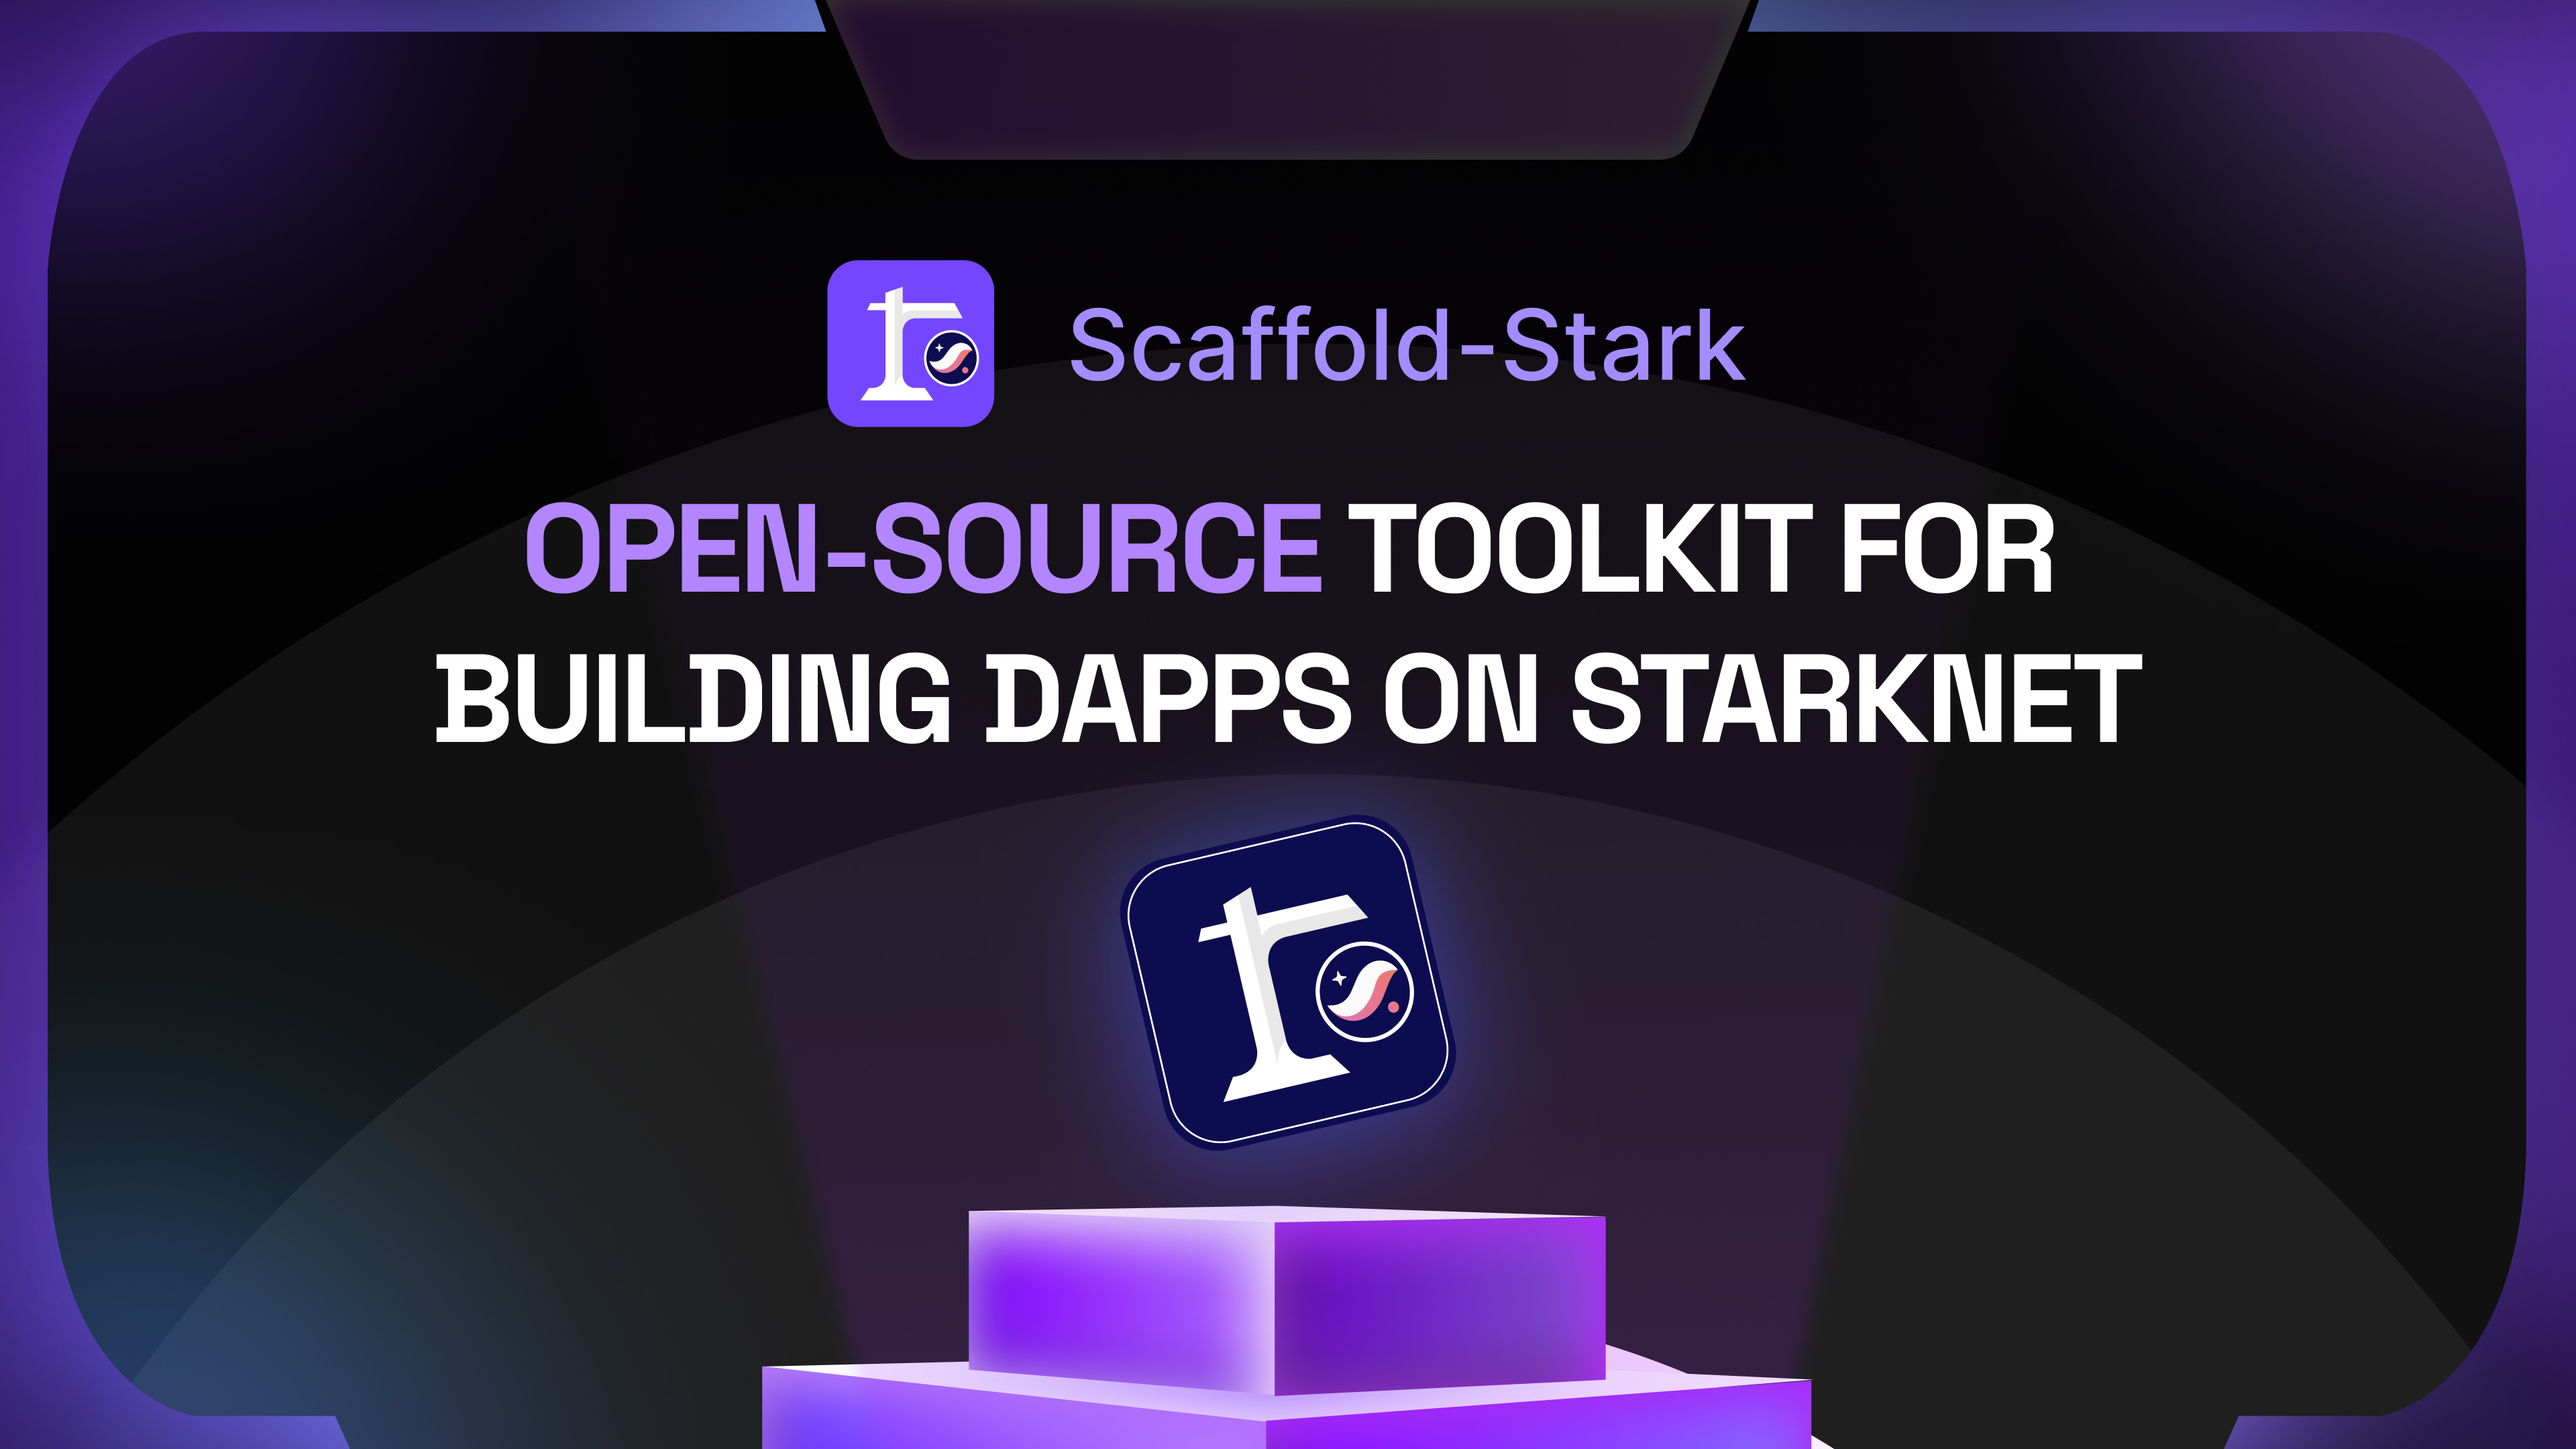
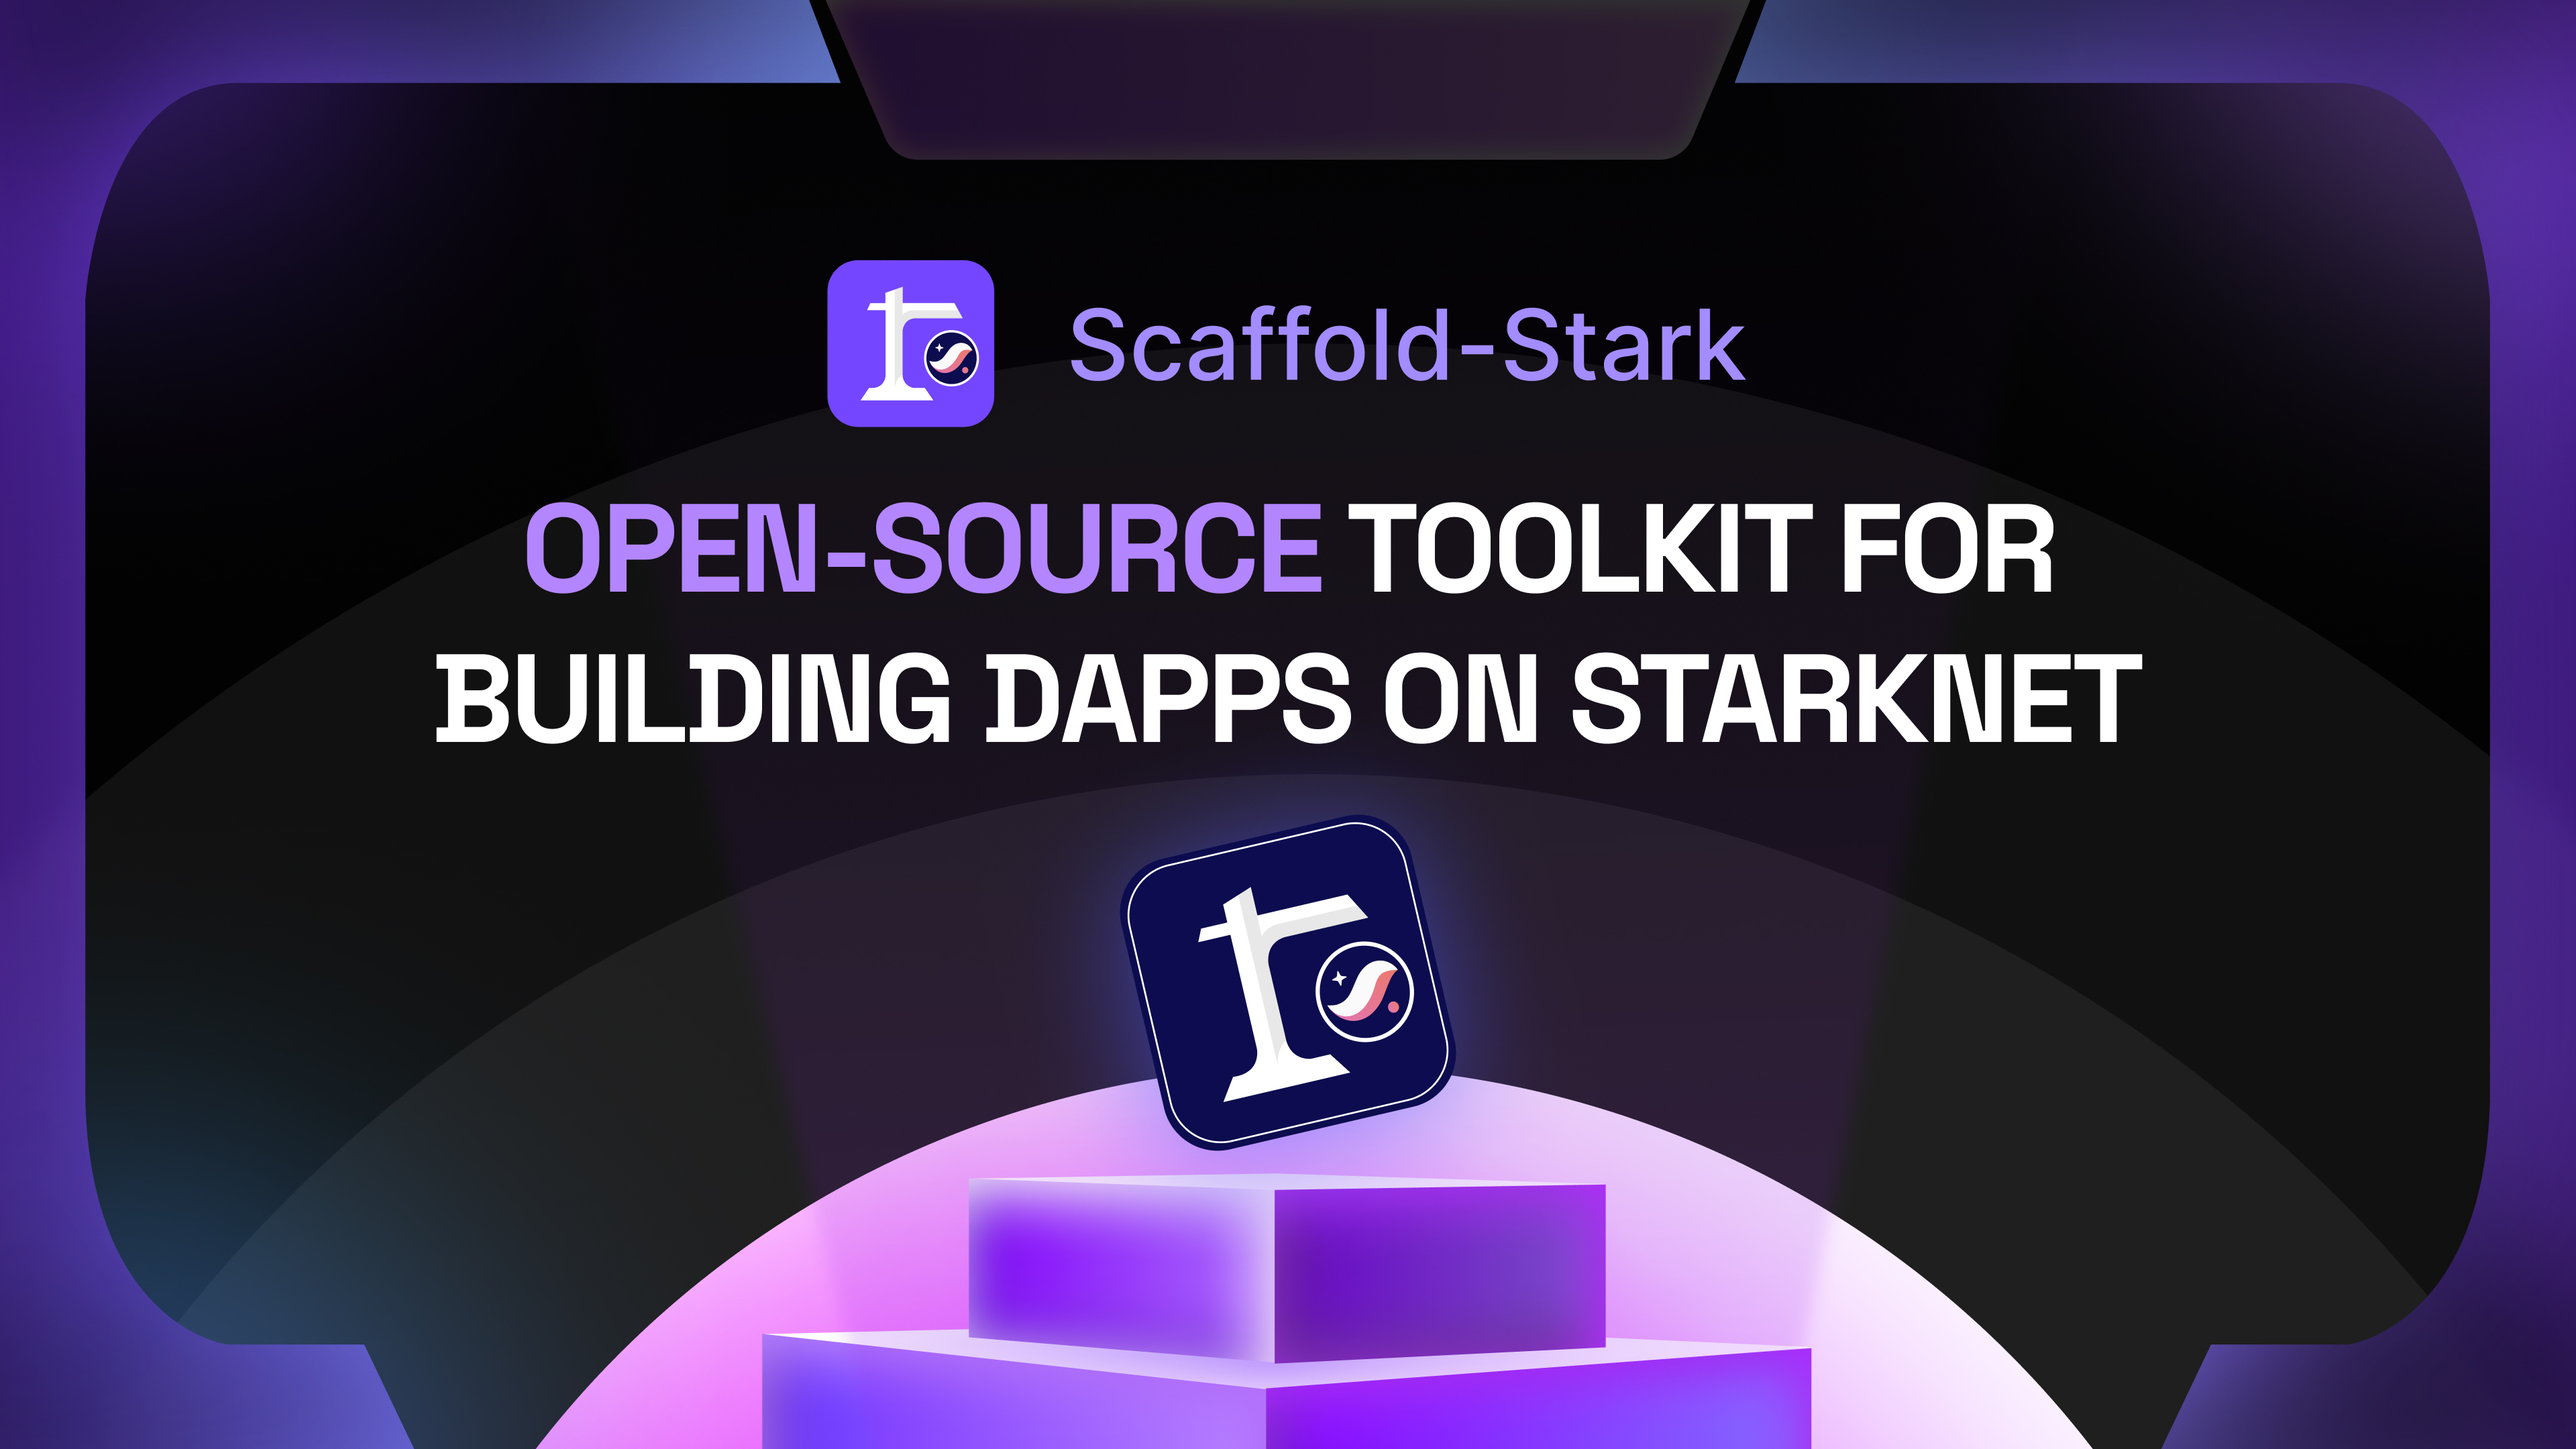
chore: update image to account for twitter croppping

Changed region(s): [[0.0, 0.0, 1.0, 1.0]]

diff --git a/packages/nextjs/app/layout.tsx b/packages/nextjs/app/layout.tsx
@@ -9,7 +9,6 @@ import "~~/styles/globals.css";
 const baseUrl = process.env.VERCEL_URL
   ? `https://${process.env.VERCEL_URL}`
   : `http://localhost:${process.env.PORT || 3000}`;
-
 const title = "Scaffold-Stark";
 const titleTemplate = "%s | Scaffold-Stark ";
 const description = "Open-source toolkit for building dApps on Starknet";
@@ -42,7 +41,7 @@ export const metadata: Metadata = {
   },
   twitter: {
     card: "summary_large_image",
-    site: "@scaffoldstark",
+    site: baseUrl,
     creator: "@scaffoldstark",
     images: [`${baseUrl}/scaffold-twitter.jpg`],
     title: {
